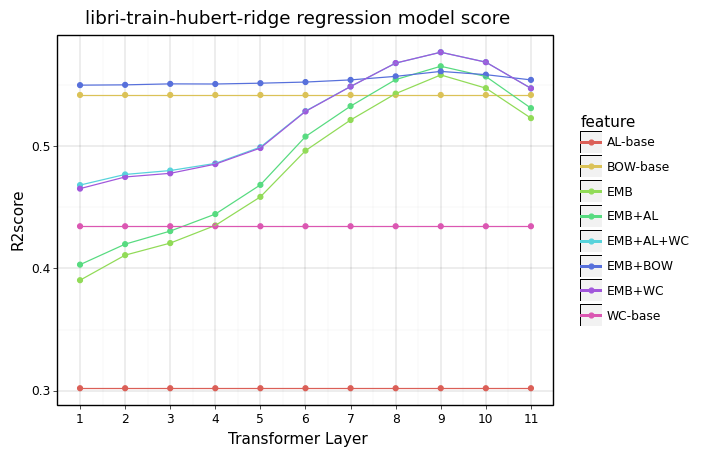
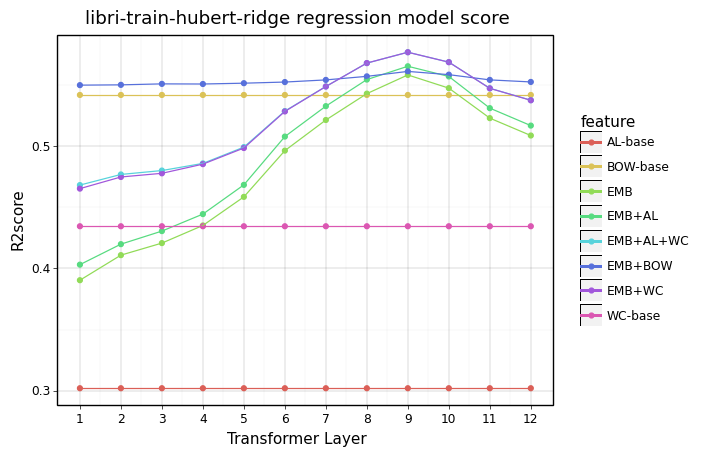
updated figure plotting

diff --git a/plot_figs.py b/plot_figs.py
@@ -73,6 +73,7 @@ def ridge_out_plot(ridge_out_file, overwrite = False):
     results = pd.read_csv(ridge_out_file, header=None, names=['layer', 'r2score', 'mse', 'model_alpha', 'feature'])
     results.replace(r'\[*\]*\s*\'*','', regex=True, inplace=True) 
     results['layer'] = results['layer'].astype('int')
+    results['layer'] += 1
     model_layer = max(results['layer'])
     save_path = 'figs/ridge'
     figure_title = os.path.basename(ridge_out_file)[:-4]
@@ -84,13 +85,14 @@ def ridge_out_plot(ridge_out_file, overwrite = False):
         baseline_file = os.path.join('ridge-results', [x for x in os.listdir('ridge-results') if 'baselines-scc' in x][0])
     baselines = pd.read_csv(baseline_file, header=None, names=['layer', 'r2score', 'mse', 'model_alpha', 'feature'])
     baselines.replace(r'\[*\]*\s*\'*','', regex=True, inplace=True) 
+    baselines['layer'] += 1
     df = pd.concat([results,baselines])
     df.loc[df['feature'] == 'AL', 'feature'] = 'EMB+AL'
     df.loc[df['feature'] == 'WC', 'feature'] = 'EMB+WC'
     # return df
     
     df['layer'] = df['layer'].astype('int')
-    df['layer'] += 1
+
     df = df[df['layer'] <= int(model_layer)]
     df.sort_values(by=['feature'], inplace=True)
     df = df.reset_index(drop=True)
@@ -130,11 +132,9 @@ def draw_rsa_figs(rsa_out_file, overwrite = False):
             df = pd.read_csv(rsa_out_file,names=['model','dataset','layer','alpha','pearsonr', 'p-value'])
             df = df.sort_values(by=['alpha','model','dataset','layer'])
             df.replace(r'\'*\(*\)*\s*','', regex=True, inplace=True) 
-            # df.replace('\(*\)*','', regex=True, inplace=True) 
             df = df.reset_index(drop=True)
-            df['alpha'] = df['alpha'].apply(pd.to_numeric)
-            df['p-value'] = df['p-value'].apply(pd.to_numeric)
-            
+            df[['alpha', 'p-value', 'layer', 'pearsonr']] = df[['alpha', 'p-value', 'layer', 'pearsonr']].apply(pd.to_numeric)
+            df = df.groupby(['model','dataset','layer'], as_index=False)['pearsonr'].median()
             df = df[df['dataset'] == dataset_lookup[x]]
             df = df.groupby(['model','layer'], as_index=False)['pearsonr'].mean()
             plot = (p9.ggplot(df, p9.aes('layer', 'pearsonr', color='model'))#, shape = 'dataset'))
